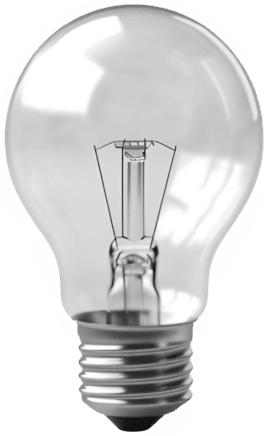
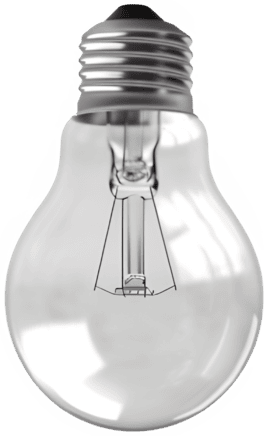
Flip bulb images upright and remove dashed move-area oval

diff --git a/index.html b/index.html
@@ -5,7 +5,7 @@
   <meta name="viewport" content="width=device-width, initial-scale=1.0">
   <title>Dushmanta Das | DBA · Web Developer · Data Analytics · AI/ML · Cloud Engineer</title>
   <meta name="description" content="Portfolio of Dushmanta Das - DBA, Web Developer, Data Analytics, AI/ML, and Cloud Engineer skilled in SQL, PL/SQL, Python, Power BI, and modern web applications.">
-  <link rel="stylesheet" href="style.css?v=2.6" />
+  <link rel="stylesheet" href="style.css?v=2.7" />
   
   <!-- Modern Google Fonts -->
   <link rel="preconnect" href="https://fonts.googleapis.com" />
@@ -689,6 +689,6 @@
   <!-- Scripts -->
   <script src="https://cdn.jsdelivr.net/npm/@emailjs/browser@3/dist/email.min.js"></script>
   <script src="https://cdn.jsdelivr.net/npm/aos@2.3.4/dist/aos.js"></script>
-  <script src="script.js?v=1.7"></script>
+  <script src="script.js?v=1.8"></script>
 </body>
 </html>

diff --git a/style.css b/style.css
@@ -194,13 +194,9 @@ body {
   width: 84%;
   height: 74%;
   transform: translateX(-50%);
-  border: 1px dashed rgba(255, 255, 255, 0.10);
+  border: none;
   border-radius: 50%;
   pointer-events: none;
-}
-
-[data-theme="light"] .bulb-move-area {
-  border-color: rgba(0, 0, 0, 0.14);
 }
 
 /* Pendulum: whole assembly pivots around its top-centre anchor */
